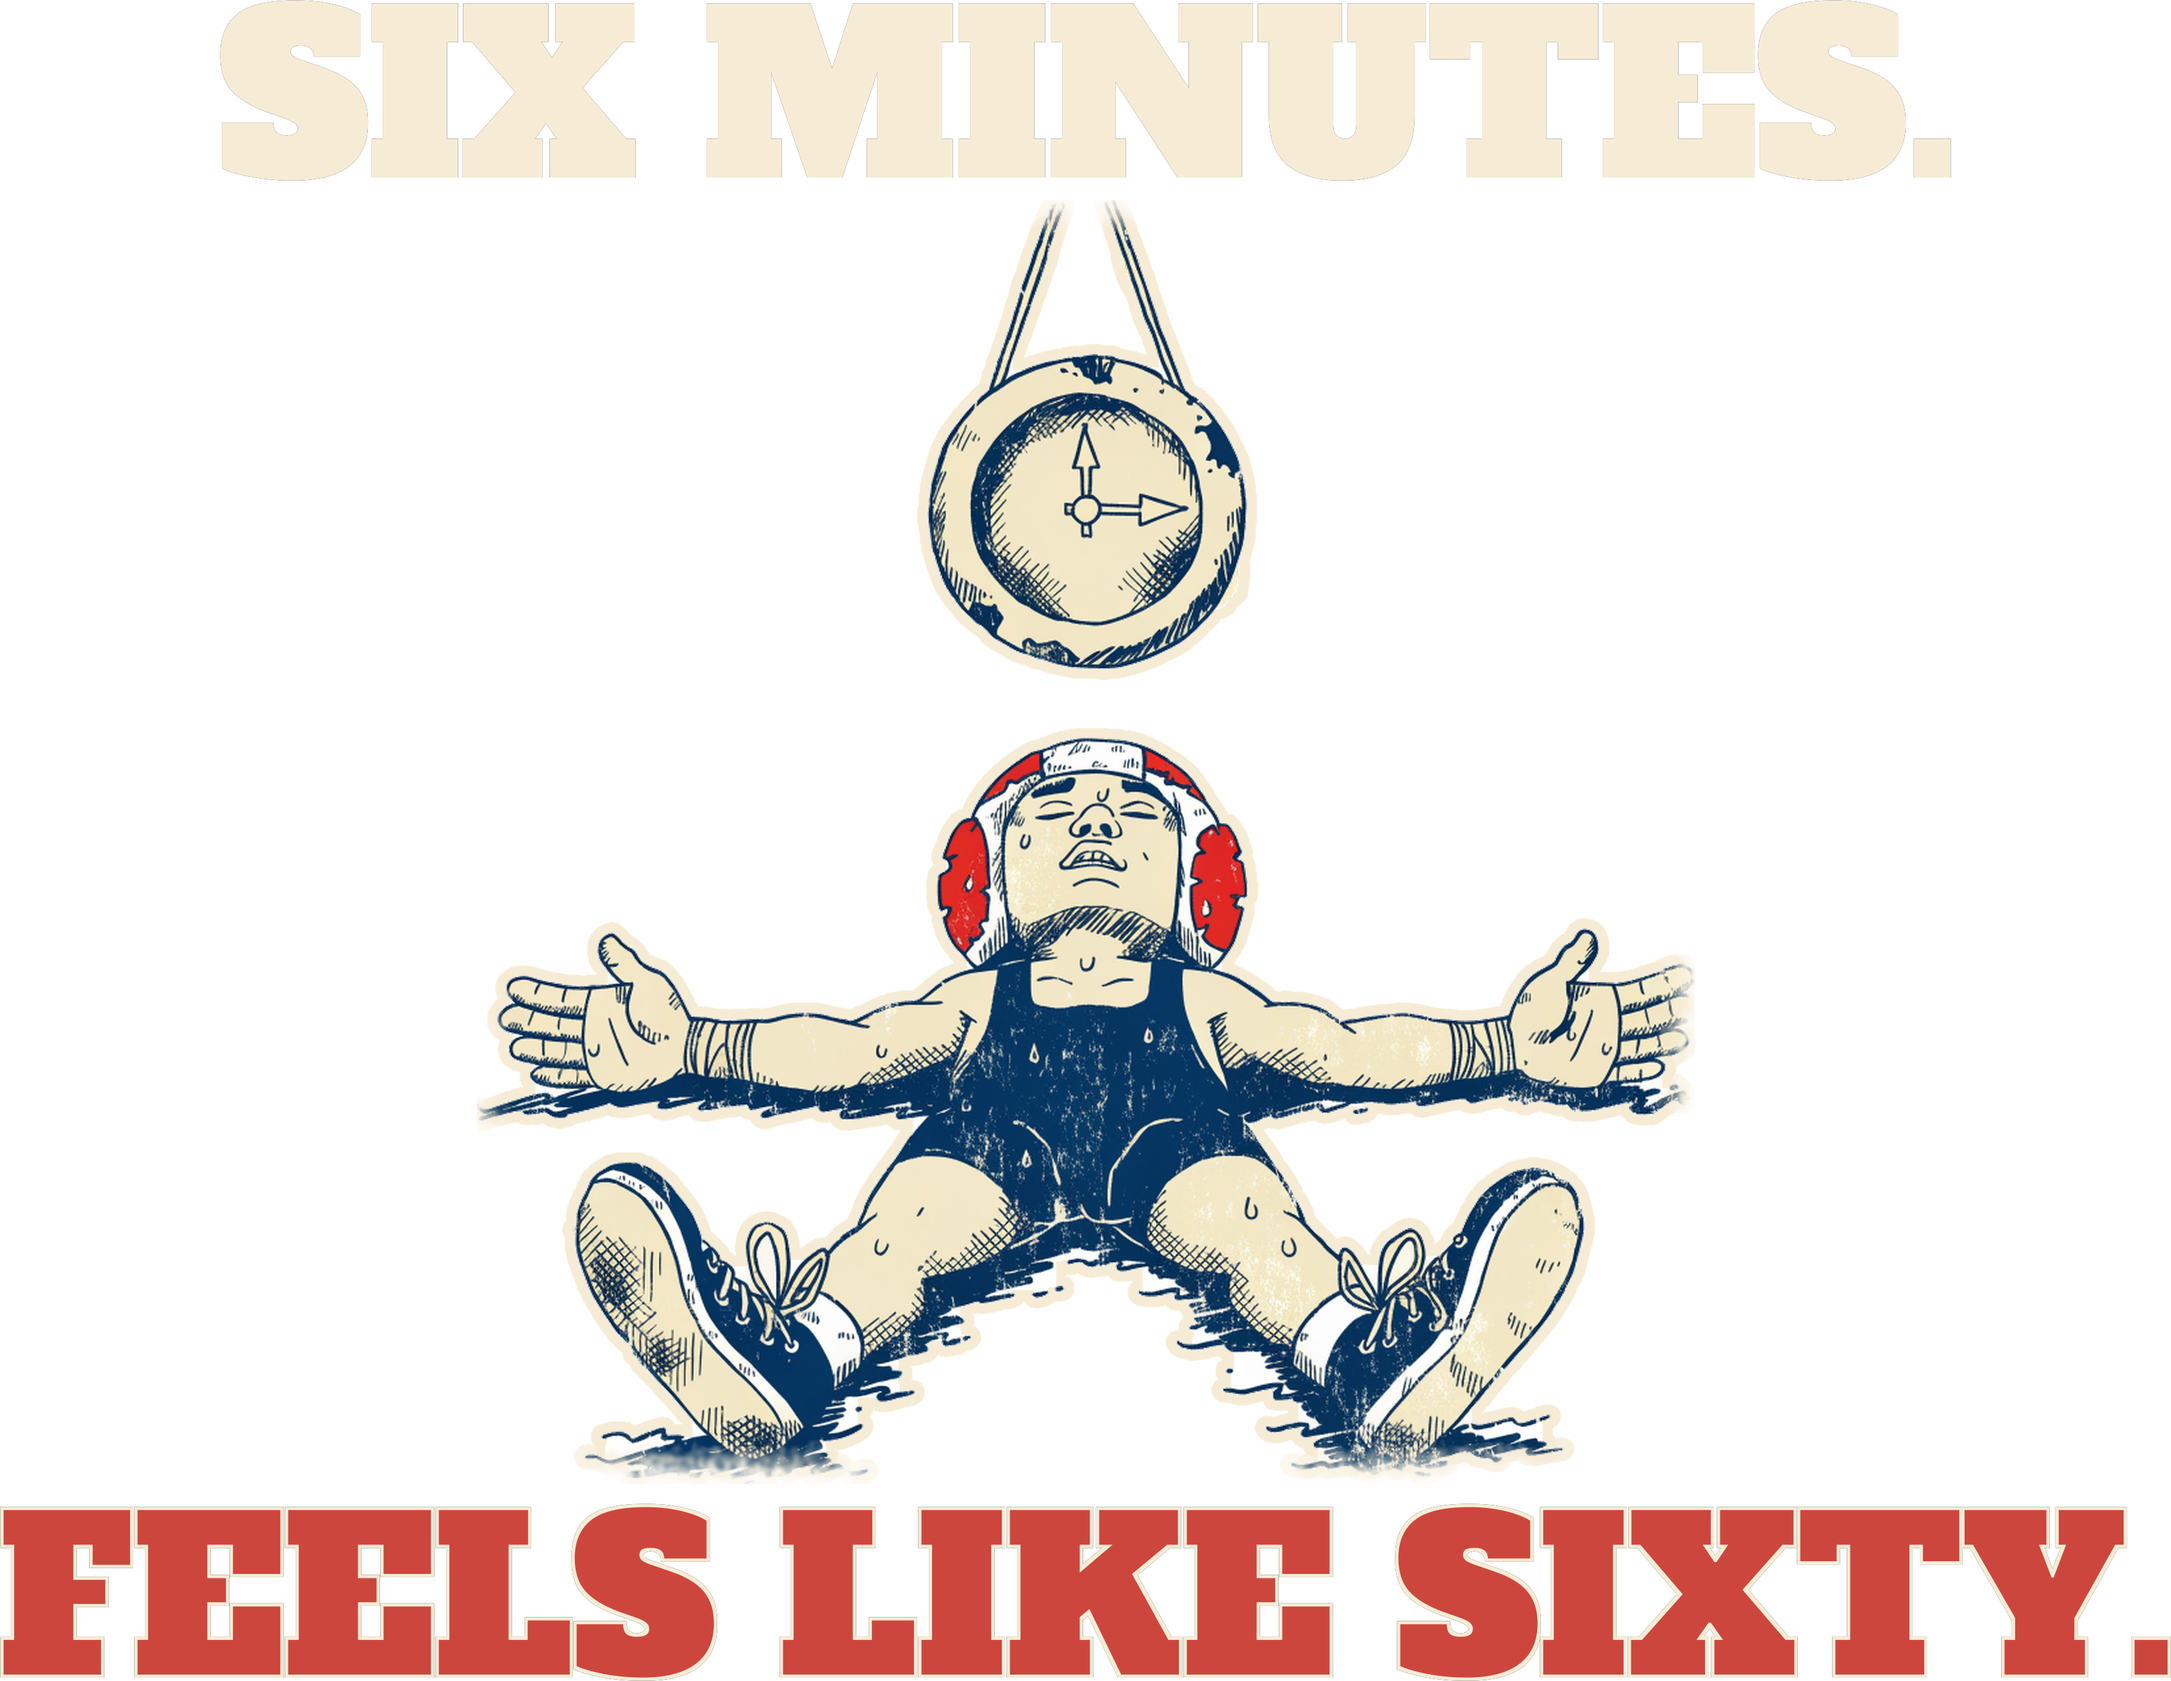
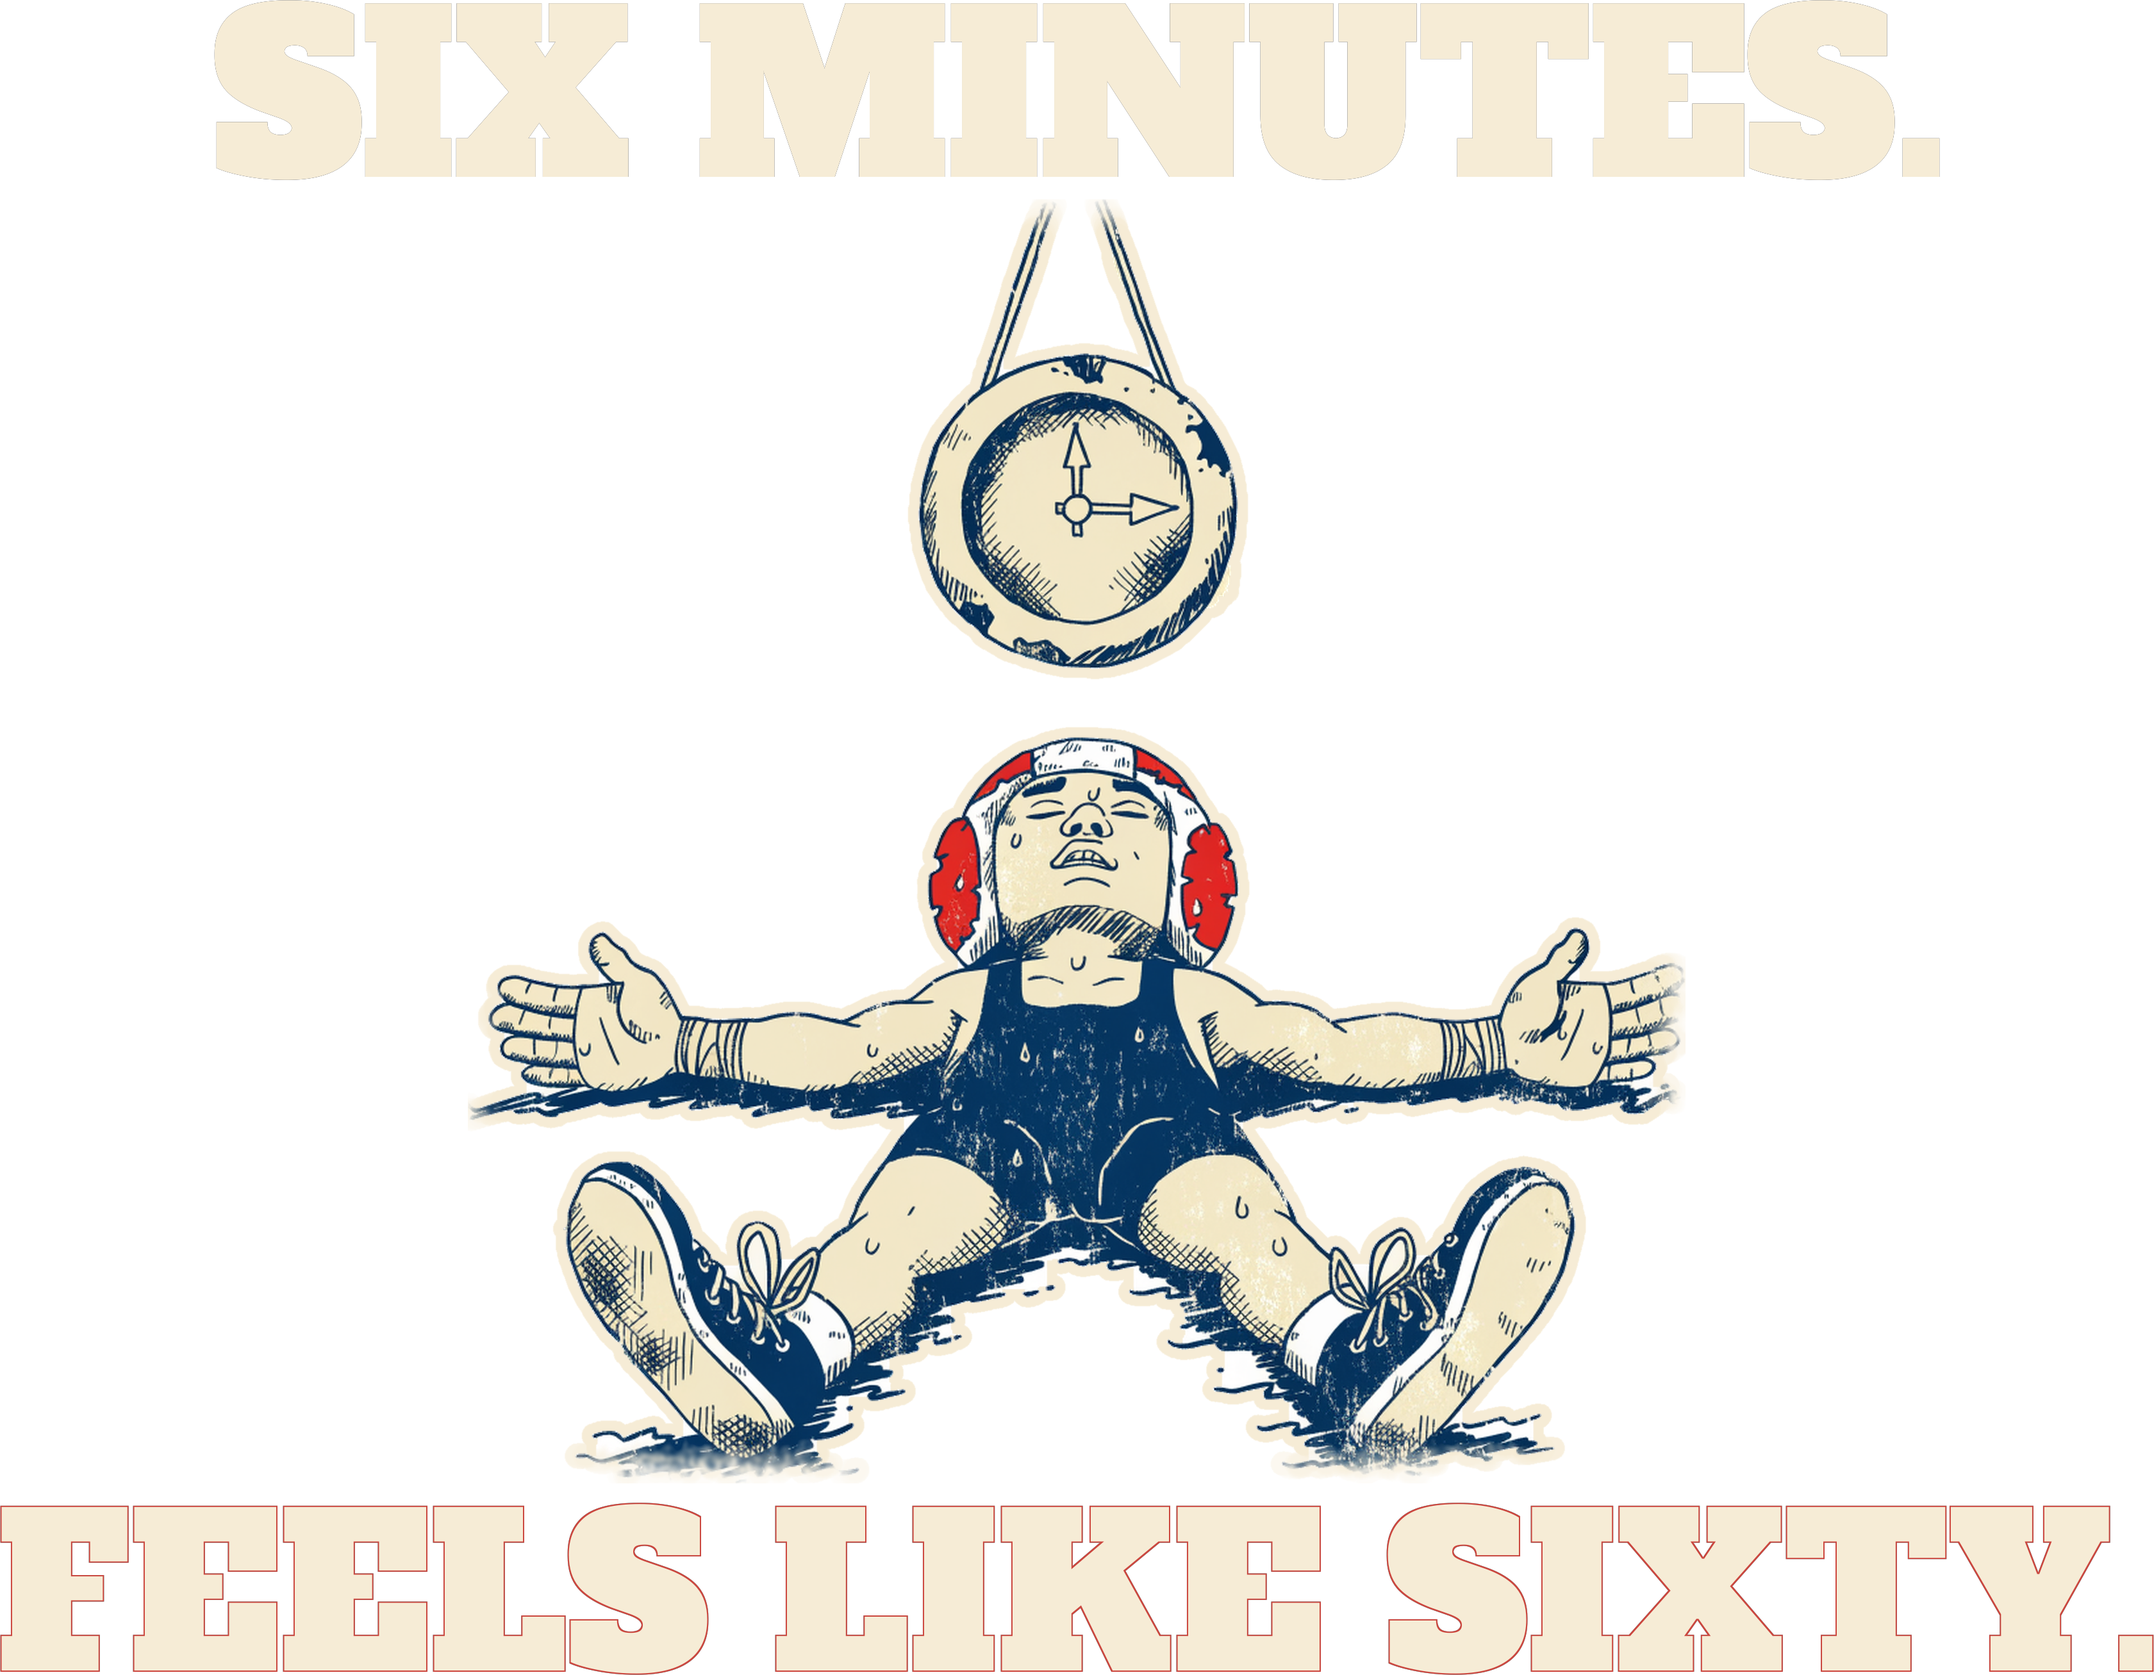
[B] 592 redo print files, hosting wait

diff --git a/designs/b592/build.py b/designs/b592/build.py
@@ -3,8 +3,9 @@ from designs.c_common import *
 AW, W, hf, pf = int(sys.argv[1]), int(sys.argv[2]), float(sys.argv[3]), float(sys.argv[4])
 art = load_art('designs/b592/art_pp.png'); art = art.resize((AW, round(art.height * AW / art.width)), Image.LANCZOS)
 RED_D = (205, 70, 62, 255); RED_L = (168, 52, 46, 255); NAVY = (31, 42, 77, 255)
-for mode, (hc, pc, hk, pk, aa, bg) in {'dark': (CREAM, RED_D, CREAM, CREAM, halo(art, 16), (31, 42, 77, 255)), 'light': (NAVY, RED_L, NAVY, CREAM, art, (226, 214, 188, 255))}.items():
-    hd = line('SIX MINUTES.', 'alfa', hf, W, hc, hk, kw=5); pn = line('FEELS LIKE SIXTY.', 'alfa', pf, W, pc, pk, kw=11)
+# REDO 07:35: dark file punch is CREAM with a thin red keyline (readable on Maroon and Black, no keyline blobbing); light file unchanged ink, keyline off
+for mode, (hc, pc, hk, pk, aa, bg) in {'dark': (CREAM, CREAM, CREAM, RED_D, halo(art, 16), (31, 42, 77, 255)), 'light': (NAVY, RED_L, NAVY, RED_L, art, (226, 214, 188, 255))}.items():
+    hd = line('SIX MINUTES.', 'alfa', hf, W, hc, hk, kw=5); pn = line('FEELS LIKE SIXTY.', 'alfa', pf, W, pc, pk, kw=5)
     out = lockup(aa, W, [hd], [pn], f'b592{mode}', {mode: bg}, g=30); out = out.crop(out.getchannel('A').point(lambda v: 255 if v > 10 else 0).getbbox())
     out.save(f'docs/print-files/592-{mode}.png', dpi=(300, 300)); th = hd.height + pn.height
     print(mode, out.size, 'headline', hd.width, 'punch', pn.width, 'type', th, 'of', out.height, round(th / out.height, 2), 'subject', art.width, 'of', out.width, round(art.width / out.width, 2))

diff --git a/scripts/fal-host.py b/scripts/fal-host.py
@@ -9,7 +9,14 @@ def repo_host(p):
     for i in range(4):
         if subprocess.run(['git', 'push', '-q', 'origin', 'HEAD:main'], stdout=subprocess.DEVNULL).returncode == 0: break
         subprocess.run(['git', 'pull', '-q', '--rebase', 'origin', 'main'], stdout=subprocess.DEVNULL)
-    url = 'https://raw.githubusercontent.com/captainunderpantz67/graphicteesco/main/' + dst; print(url)
+    url = 'https://raw.githubusercontent.com/captainunderpantz67/graphicteesco/main/' + dst
+    import time
+    for i in range(20):
+        try:
+            if urllib.request.urlopen(url, timeout=20).status == 200: break
+        except Exception: pass
+        time.sleep(3)
+    print(url)
 K = os.environ['FAL_KEY']; p = sys.argv[1]; name = sys.argv[2] if len(sys.argv) > 2 else os.path.basename(p)
 ct = mimetypes.guess_type(name)[0] or 'application/octet-stream'
 try:

diff --git a/scripts/b-pfvars.py b/scripts/b-pfvars.py
@@ -1,0 +1,8 @@
+#!/usr/bin/env python3
+"""b-pfvars.py <sync product id> [size=M]: prints 'Color=printful variant id' for one size of every color (for mockups)."""
+import sys, os, json, urllib.request
+r = urllib.request.Request('https://api.printful.com/sync/products/%s' % sys.argv[1], headers={'Authorization': 'Bearer ' + os.environ['PRINTFUL_TOKEN'], 'User-Agent': 'gtc'})
+d = json.load(urllib.request.urlopen(r))['result']['sync_variants']; sz = sys.argv[2] if len(sys.argv) > 2 else 'M'
+for v in d:
+    p = v['name'].split(' / ')
+    if p[-1] == sz: print('%s=%s' % (p[-2], v['variant_id']))
